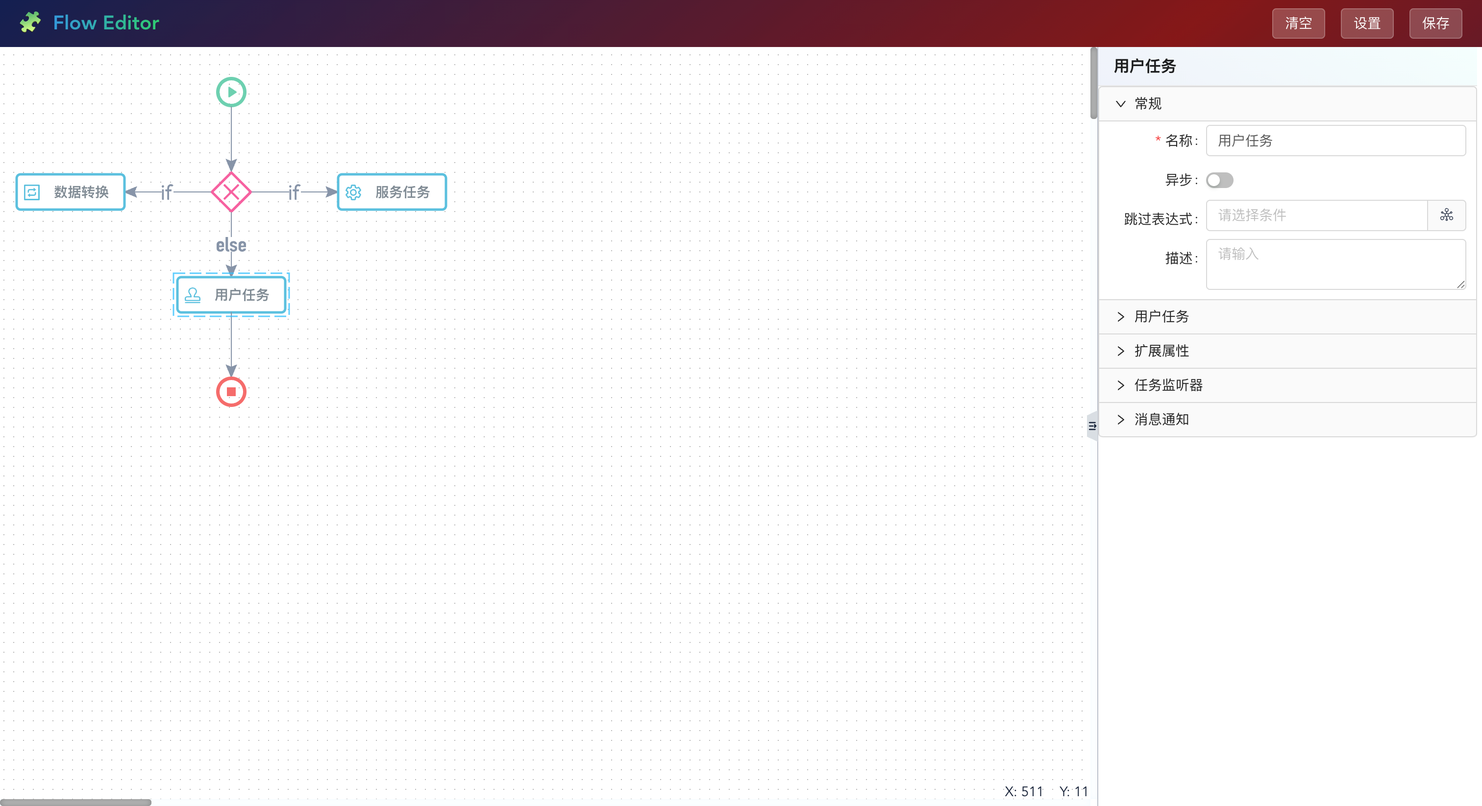
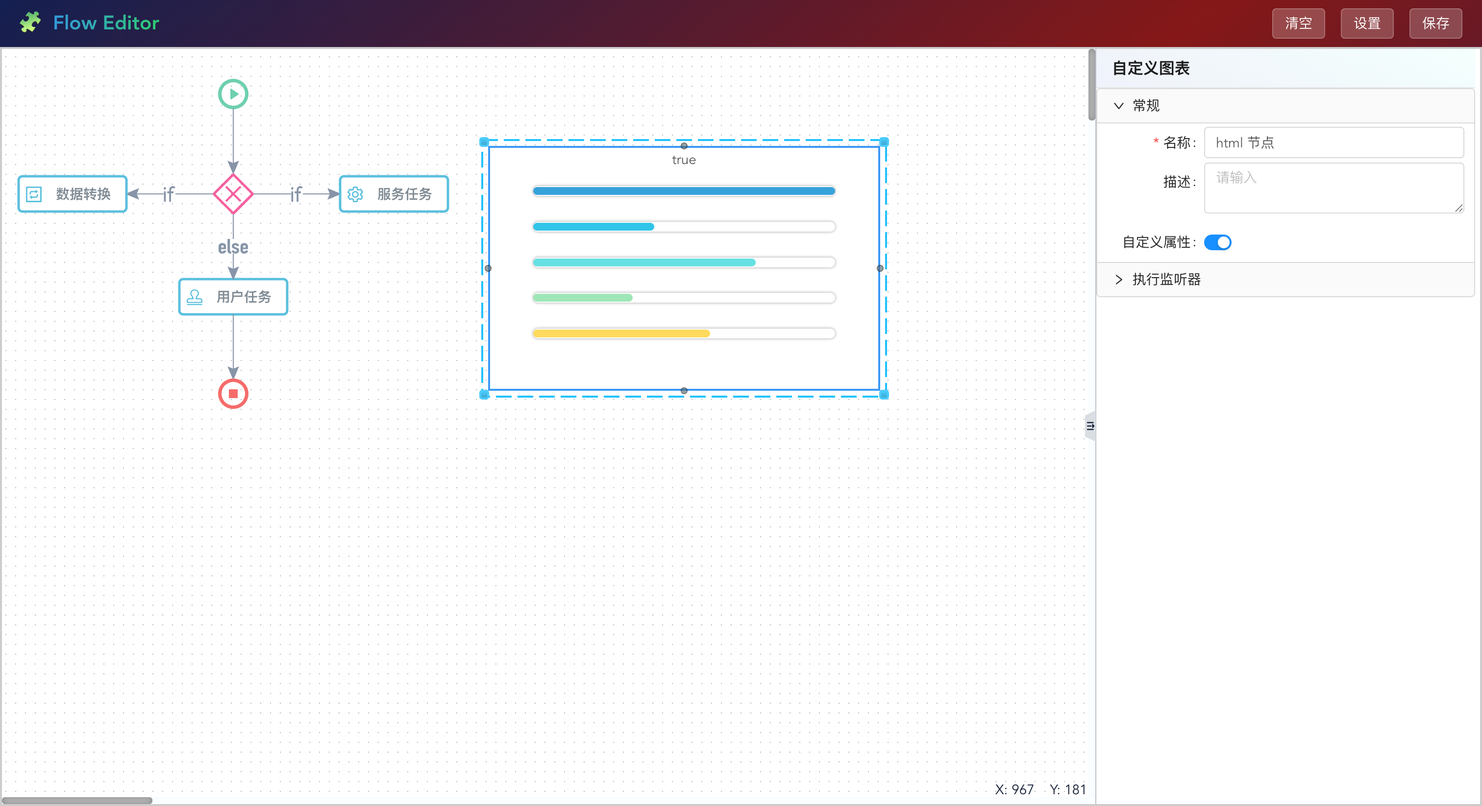
update

diff --git a/js/index.1dcd9817.js b/js/index.1dcd9817.js
@@ -1,0 +1,1 @@
+(function(){var e={1891:function(e,t,a){"use strict";var s=a(2856),o=function(){var e=this,t=e._self._c;return t("ConfigProvider",{attrs:{locale:e.locale}},[t("div",{attrs:{id:"app"}},[t("div",{staticClass:"tool-bar"},[t("div",{staticClass:"logo"},[t("div",{staticClass:"logo-icon"},[e._v("🧩")]),t("span",{staticClass:"logo-text"},[e._v("Flow Editor")])]),t("div",{staticClass:"controls"},[t("button",{staticClass:"control-btn",attrs:{id:"btn-clear"},on:{click:e.clearCanvas}},[e._v(" 清空 ")]),t("button",{staticClass:"control-btn",attrs:{id:"btn-config"},on:{click:function(t){e.settingVisible=!0}}},[e._v(" 设置 ")]),t("button",{staticClass:"control-btn",attrs:{id:"btn-save"},on:{click:e.saveData}},[e._v(" 保存 ")])])]),t("div",{staticClass:"process-synergy"},[t("ProcessEditor",{ref:"editor",attrs:{processData:e.processData,tabConfig:e.tabConfig,editorConfig:e.editorConfig,customNodes:e.customNodes,customFields:e.customFields,staticDataSource:e.staticDataSource}})],1),t("a-modal",{attrs:{bodyStyle:{height:"450px",overflow:"auto"},width:"80%",title:"Json数据",footer:null},model:{value:e.showEditor,callback:function(t){e.showEditor=t},expression:"showEditor"}},[t("pre",[e._v(e._s(e.jsonData))])]),t("CommonDragDrawer",{attrs:{width:"550px",minWidth:"550px",title:"属性配置",visible:e.settingVisible},on:{"update:visible":function(t){e.settingVisible=t},close:e.onDrawerClose}},[t("template",{slot:"footer"},[t("a-button",{staticStyle:{"margin-right":"0.5rem"},on:{click:e.onDrawerClose}},[e._v(e._s("取消"))]),t("a-button",{attrs:{type:"primary"},on:{click:e.onDrawerOk}},[e._v(e._s("确定"))])],1)],2)],1)])},r=[],n=(a(8111),a(2489),a(1701),a(7481)),l=a(263),i=a(4975),d=JSON.parse('{"template":{"basic":{"processName":"流程"},"globalListener":{"list":[{"activityType":"WAIT","rowNum":0,"listenerId":"11ed192444902e7b85b56b2595733321"}]}},"bizFigures":[{"id":"88f58cac-1466-e946-180b-cbaec238dc73","attr":{"type":"Start","nodeType":"Start","x":221,"y":31},"userData":{"basic":{"nodeName":"开始"},"extension":{"revoke":true,"addsign":true},"nodeType":"Start"}},{"id":"8a5744e6-fdb7-31cf-00f4-21bb6e4daddc","attr":{"type":"ExclusiveGateway","nodeType":"ExclusiveGateway","x":215,"y":127},"userData":{"basic":{"nodeName":"互斥网关"},"nodeType":"ExclusiveGateway"}},{"id":"ad0ebb41-3825-b962-e637-19ae89546c31","attr":{"type":"DataConversionTask","nodeType":"DataConversionTask","x":17,"y":130},"userData":{"basic":{"nodeName":"数据转换"},"nodeType":"DataConversionTask"}},{"id":"f036c65a-bb01-cdcb-b231-b526528cd720","attr":{"type":"ServiceTask","nodeType":"ServiceTask","x":345,"y":130},"userData":{"basic":{"nodeName":"服务任务"},"ccToUsers":{},"executionListener":{},"nodeType":"ServiceTask"}},{"id":"19effa64-82ff-7f84-6d0f-f680a3ad1e08","attr":{"type":"UserTask","nodeType":"UserTask","x":181,"y":235},"userData":{"basic":{"nodeName":"用户任务"},"executors":{},"extension":{"actionType":["approve","turn_do","addsign","reject"],"returnType":["BACK_DIRECTLY"],"allowReturnTo":"ALL_BEFORE_NODE"},"taskListener":{},"messageVO":{"messages":[]},"nodeType":"UserTask"}},{"id":"b9f051ed-8480-3351-c7ad-8de024538434","attr":{"type":"End","nodeType":"End","x":221,"y":337},"userData":{"basic":{"nodeName":"结束"},"nodeType":"End"}},{"id":"85b39fc1-9c73-c42e-be29-905904da4018","attr":{"type":"HtmlTask","nodeType":"CustomTask","x":570,"y":14},"userData":{"basic":{"nodeName":"html 节点","customFlag":true},"executionListener":{"list":[{"activityType":"WAIT","rowNum":0,"listenerId":"11ed1924a9ee7f149abf1da7b7288998"}]},"nodeType":"CustomTask"}},{"id":"9b7aef9d-2510-3c7f-acbd-389801771d57","attr":{"type":"HtmlTask","nodeType":"DataVTask","x":573,"y":300},"userData":{"nodeType":"DataVTask"}}],"noneBizFigures":[{"id":"35f545ff-eb8a-9480-2f65-379fe0118701","attr":{"type":"VerticalLane","x":221,"y":385},"userData":{"text":"泳道","shapeAttr":{"config":{},"text":"泳道","width":300,"height":550,"fontSize":14,"stroke":2,"bold":false,"alpha":1,"dasharray":null,"fontColor":"rgba(128,139,148,1)","color":"rgba(91,192,222,1)","bgColor":"none","titleBgColor":"#FFFFFF"}}},{"id":"5b58acdf-5410-4566-6c88-473e269607ef","attr":{"type":"Remarks","x":311,"y":276},"userData":{"text":"文本描述","shapeAttr":{"config":{"text":{"rules":[{"required":true,"message":"必填"}]},"fontSize":{"rules":[{"required":true,"message":"必填"}]}},"text":"文本描述","width":120,"height":60,"fontSize":12,"stroke":2,"bold":true,"alpha":1,"fontColor":"rgba(31,145,238,1)","color":"rgba(91,192,222,1)","bgColor":"rgba(0,0,0,0)","dasharray":"-.."}}}],"lines":[{"id":"100941e4-8c31-8159-2310-3e90f67fdf72","attr":{},"source":{"id":"8a5744e6-fdb7-31cf-00f4-21bb6e4daddc","portType":"bottom"},"target":{"id":"19effa64-82ff-7f84-6d0f-f680a3ad1e08","portType":"top"},"userData":{}},{"id":"6f75881e-9b60-2213-0ed6-805390541a2b","attr":{},"source":{"id":"8a5744e6-fdb7-31cf-00f4-21bb6e4daddc","portType":"left"},"target":{"id":"ad0ebb41-3825-b962-e637-19ae89546c31","portType":"right"},"userData":{}},{"id":"bb50fb49-20af-c46f-0565-bf4059c55dd1","attr":{},"source":{"id":"88f58cac-1466-e946-180b-cbaec238dc73","portType":"bottom"},"target":{"id":"8a5744e6-fdb7-31cf-00f4-21bb6e4daddc","portType":"top"},"userData":{}},{"id":"49df0349-8745-fcdf-b262-037aad0b6357","attr":{},"source":{"id":"8a5744e6-fdb7-31cf-00f4-21bb6e4daddc","portType":"right"},"target":{"id":"f036c65a-bb01-cdcb-b231-b526528cd720","portType":"left"},"userData":{}},{"id":"da998c0e-d333-960e-94dc-d49b15b3e86c","attr":{},"source":{"id":"19effa64-82ff-7f84-6d0f-f680a3ad1e08","portType":"bottom"},"target":{"id":"b9f051ed-8480-3351-c7ad-8de024538434","portType":"top"},"userData":{}}]}'),c=JSON.parse('{"eventList":[{"title":"测试活动1","key":"11ed1924a9ee7f149abf1da7b7288998"},{"title":"测试活动2","key":"11ed192444902e7b85b56b2595733321"}],"eventExecutionTime":[{"key":"LEAVE_NODE","title":"环节结束"}],"msgNotifyExecutionTime":[{"key":"ARRIVE_NODE","title":"环节到达"},{"key":"RETURN_NODE","title":"环节被退回"},{"key":"HAVE_TIMEOUT","title":"环节超时"},{"key":"LEAVE_NODE","title":"环节结束"}]}'),u={template:{addTemplate:[{t_name:"basic",localeKey:"process.template",label:"常规",groups:[{fieldList:[{f_name:"processName",comProps:{required:!0,maxLength:64,defaultValue:"流程"},label:"名称",isSys:!0,type:"INPUT"}],g_name:"workflow_basic",label:"常规"}]}],editTemplate:[{t_name:"basic",label:"常规",groups:[{fieldList:[{f_name:"processName",comProps:{required:!0,maxLength:64,defaultValue:"流程"},label:"名称",isSys:!0,type:"INPUT"},{f_name:"candidateStarterUsers",label:"流程启动人",isSys:!0,type:"PERSON"},{f_name:"documentation",comProps:{maxLength:1024},label:"描述",isSys:!0,type:"TEXTAREA"}],g_name:"template_basic",label:"常规"}]},{t_name:"globalListener",label:"全局监听",groups:[{g_name:"list",renderGroup:"cardList",addInitValue:{activityType:"DOWNWARD_FLOW"},isSys:!0,type:"EXECUTE",composite:!0,label:""}]}]},node:{Start:[{t_name:"basic",label:"常规",groups:[{fieldList:[{f_name:"nodeName",comProps:{multiline:!0,required:!0,maxLength:64,defaultValue:"开始"},label:"名称",isSys:!0,type:"INPUT"},{f_name:"documentation",comProps:{maxLength:1024},label:"描述",isSys:!0,type:"TEXTAREA"}],g_name:"MENU_BASIC",label:"常规"}]},{t_name:"extension",label:"扩展属性",groups:[{fieldList:[{groupId:"11ec484951a9aeca9931bb014d9869a2",label:"撤回",f_name:"revoke",type:"BOOLEAN",comProps:{defaultValue:!0},renderType:"block"},{isSys:!1,groupId:"11ec484951a9aeca9931bb014d9869a2",label:"加签",f_name:"addsign",type:"BOOLEAN",comProps:{defaultValue:!0},renderType:"block"}],g_name:"approvalAuthority",label:"审批权限",renderGroup:"collapse"}]}],End:[{t_name:"basic",label:"常规",groups:[{fieldList:[{f_name:"nodeName",comProps:{multiline:!0,required:!0,maxLength:64,defaultValue:"结束"},label:"名称",isSys:!0,type:"INPUT"},{f_name:"documentation",comProps:{maxLength:1024},label:"描述",isSys:!0,type:"TEXTAREA"}],g_name:"MENU_BASIC",label:"常规"}]}],UserTask:[{t_name:"basic",label:"常规",groups:[{fieldList:[{f_name:"nodeName",comProps:{multiline:!0,required:!0,maxLength:64,defaultValue:"用户任务"},label:"名称",isSys:!0,type:"INPUT"},{f_name:"asynchronous",label:"异步",isSys:!0,type:"BOOLEAN"},{f_name:"skipExpression",label:"跳过表达式",isSys:!0,type:"RULE_CONDITION"},{f_name:"documentation",comProps:{maxLength:1024},label:"描述",isSys:!0,type:"TEXTAREA"}],g_name:"MENU_BASIC",label:"常规"}]},{t_name:"executors",label:"用户任务",groups:[{fieldList:[{f_name:"executorRule",comProps:{required:!0},label:"执行人",placeholderLocaleKey:"process.executors",isSys:!0,type:"PERSON"},{f_name:"executorType",comProps:{defaultValue:"PREEMPTIVE"},label:"执行类型",layout:"horizontal",options:[{value:"PREEMPTIVE",label:"或签",title:"其中一名审批人通过即可",localeKey:"process.preemptive"},{value:"COUNTERSIGN",label:"会签",title:"需要所有审批人都通过",localeKey:"process.countersign"}],isSys:!0,composite:!0,type:"EXECUTOR_TYPE"},{f_name:"dueDate",label:"到期时间",isSys:!0,type:"DATE"},{f_name:"conditionRule",tabDataCode:"executors",label:"表达式",isSys:!0,type:"RULE_CONDITION"}],g_name:"list",labelHidden:!0,renderGroup:"cardList",isSys:!0,label:"执行人"}]},{t_name:"extension",label:"扩展属性",groups:[{fieldList:[{isSys:!1,groupId:"6f8ceb08a35a4be08c82d796aef4c74c",label:"功能项",f_name:"actionType",type:"CHECKBOX",renderType:"block",comProps:{defaultValue:["approve","turn_do","addsign","reject"]},layout:"horizontal",options:[{label:"审批",value:"approve"},{label:"签收",value:"claim"},{label:"转办",value:"turn_do"},{label:"暂存",value:"hold_task"},{label:"加签",value:"addsign"},{label:"驳回",value:"reject"},{label:"撤回",value:"revoke"},{label:"转阅",value:"turn_read"},{label:"委派",value:"delegate"}]},{isSys:!1,groupId:"6f8ceb08a35a4be08c82d796aef4c74c",label:"再提交方式",f_name:"returnType",type:"CHECKBOX",renderType:"block",layout:"horizontal",comProps:{defaultValue:["BACK_DIRECTLY"]},options:[{label:"直送至我",value:"BACK_DIRECTLY"},{label:"逐级审批",value:"BACK_STEPBYSTEP"}]},{isSys:!1,groupId:"6f8ceb08a35a4be08c82d796aef4c74c",label:"允许退回至",f_name:"allowReturnTo",type:"SELECT",renderType:"block",comProps:{defaultValue:"ALL_BEFORE_NODE"},options:"[{'disabled':false,'title':'前所有环节','key':'ALL_BEFORE_NODE'},{'disabled':false,'title':'前一环节','key':'BEFORE_NODE'},{'disabled':false,'title':'开始','key':'START_NODE'}]"}],g_name:"approvalAuthority",label:"审批权限",renderGroup:"collapse"}]},{t_name:"taskListener",label:"任务监听器",groups:[{g_name:"list",renderGroup:"cardList",addInitValue:{activityType:"DOWNWARD_FLOW"},isSys:!0,type:"EXECUTE",composite:!0,label:""}]},{t_name:"messageVO",label:"消息通知",groups:[{fieldList:[{f_name:"executionTime",tabDataCode:"messageVO",comProps:{required:!0,defaultValue:"ARRIVE_NODE"},label:"发送时机",dataSourceFrom:"msgNotifyExecutionTime",isSys:!0,type:"SELECT"},{f_name:"sender",comProps:{required:!0},label:"通知人",isSys:!0,type:"PERSON"},{f_name:"conditionRule",tabDataCode:"messageVO",label:"消息发送条件",isSys:!0,type:"RULE_CONDITION"}],g_name:"messages",defaultValue:[],labelHidden:!0,renderGroup:"cardList",isSys:!0,label:"消息通知"}]}],ExclusiveGateway:[{t_name:"basic",label:"常规",groups:[{fieldList:[{f_name:"nodeName",comProps:{multiline:!0,required:!0,maxLength:64,defaultValue:"互斥网关"},label:"名称",isSys:!0,type:"INPUT"},{f_name:"documentation",comProps:{maxLength:1024},label:"描述",isSys:!0,type:"TEXTAREA"}],g_name:"branchData",labelHidden:!0,isSys:!0,composite:!0,type:"CONDITION_BRANCH",label:""}]}],DataConversionTask:[{t_name:"basic",label:"常规",groups:[{fieldList:[{f_name:"nodeName",comProps:{multiline:!0,required:!0,maxLength:64,defaultValue:"数据转换"},label:"名称",isSys:!0,type:"INPUT"},{f_name:"documentation",comProps:{maxLength:1024},label:"描述",isSys:!0,type:"TEXTAREA"}],g_name:"MENU_BASIC",label:"常规"},{comProps:{required:!0},g_name:"convertRuleIds",fixedPos:["convertData","data","convertRuleIds"],defaultValue:{},labelHidden:!1,labelStyle:{"padding-left":0},renderType:"block",isSys:!0,label:"转换规则"}]}],ServiceTask:[{t_name:"basic",label:"常规",groups:[{fieldList:[{f_name:"nodeName",comProps:{multiline:!0,required:!0,maxLength:64,defaultValue:"服务任务"},label:"名称",isSys:!0,type:"INPUT"},{f_name:"documentation",comProps:{maxLength:1024},label:"描述",isSys:!0,type:"TEXTAREA"}],g_name:"MENU_BASIC",icon:"",label:"常规",type:"TAB_MENU"},{g_name:"nodeActivities",labelHidden:!0,isSys:!0,composite:!0,label:"执行活动"}]},{t_name:"ccToUsers",label:"抄送人",groups:[{fieldList:[{label:"抄送人",f_name:"ccToUsers",defaultValue:{},renderGroup:"cardList",isSys:!0,type:"PERSON"},{f_name:"conditionRule",tabDataCode:"ccToUsers",label:"抄送条件",isSys:!0,type:"RULE_CONDITION"}],g_name:"ccToUsers",renderGroup:"cardList",isSys:!0,label:"抄送人"}]},{t_name:"executionListener",label:"执行监听器",groups:[{g_name:"list",renderGroup:"cardList",addInitValue:{activityType:"DOWNWARD_FLOW"},isSys:!0,type:"EXECUTE",composite:!0,label:""}]}],CustomTask:[{t_name:"basic",label:"常规",groups:[{fieldList:[{f_name:"nodeName",comProps:{multiline:!0,required:!0,maxLength:64,defaultValue:"html 节点"},label:"名称",isSys:!0,type:"INPUT"},{f_name:"documentation",comProps:{maxLength:1024},label:"描述",isSys:!0,type:"TEXTAREA"},{f_name:"customFlag",label:"自定义属性",isSys:!0,type:"SWITCH"}],g_name:"MENU_BASIC",icon:"",label:"常规",type:"TAB_MENU"},{g_name:"nodeActivities",labelHidden:!0,isSys:!0,composite:!0,label:"执行活动"}]},{t_name:"executionListener",label:"执行监听器",groups:[{g_name:"list",renderGroup:"cardList",addInitValue:{activityType:"DOWNWARD_FLOW"},isSys:!0,type:"EXECUTE",composite:!0,label:""}]}]},line:{ExclusiveGateway:[{t_name:"branchData",label:"条件设置",groups:[{g_name:"branchData",label:"",type:"CONDITION_BRANCH",isSys:!0,composite:!0}]}]}},p=function(){var e=this,t=e._self._c;return t("dv-scroll-board",{attrs:{config:e.config}})},m=[],b={name:"CustomDataV",components:{},props:{},data(){return{}},watch:{},computed:{config(){return{header:["列1","列2","列3"],data:[['<span style="color:#37a2da;">行1列1</span>',"行1列2","行1列3"],["行2列1",'<span style="color:#32c5e9;">行2列2</span>',"行2列3"],["行3列1","行3列2",'<span style="color:#67e0e3;">行3列3</span>'],["行4列1",'<span style="color:#9fe6b8;">行4列2</span>',"行4列3"],['<span style="color:#ffdb5c;">行5列1</span>',"行5列2","行5列3"],["行6列1",'<span style="color:#ff9f7f;">行6列2</span>',"行6列3"],["行7列1","行7列2",'<span style="color:#fb7293;">行7列3</span>'],["行8列1",'<span style="color:#e062ae;">行8列2</span>',"行8列3"],['<span style="color:#e690d1;">行9列1</span>',"行9列2","行9列3"],["行10列1",'<span style="color:#e7bcf3;">行10列2</span>',"行10列3"]],index:!0,columnWidth:[50],align:["center"]}}},created(){},mounted(){},methods:{}},f=b,y=a(1656),g=(0,y.A)(f,p,m,!1,null,"42542265",null),h=g.exports,j=function(){var e=this,t=e._self._c;return t("div",{staticClass:"custom-html"},[t("div",{staticClass:"node-name"},[e._v(e._s(e.nodeName))]),t("div",{staticClass:"node-content"},[t("dv-capsule-chart",{staticStyle:{width:"100%",height:"100%"},attrs:{config:e.config}})],1)])},T=[],_={name:"CustomHtml",components:{},props:{userData:{type:Object,default:function(){return{}}}},data(){return{nodeName:""}},watch:{},computed:{config(){return{data:[{name:"南阳",value:167},{name:"周口",value:67},{name:"漯河",value:123},{name:"郑州",value:55},{name:"西峡",value:98}],unit:"单位"}}},created(){},mounted(){const{basic:e}=this.userData||{},{label:t}=e||{};this.nodeName=t||"html 节点"},methods:{setShapeText(e,t){this.nodeName=e},onChange(e,t){const{method:a,path:s,key:o,itemIndex:r,value:n}=e||{};this.nodeName=n}}},v=_,E=(0,y.A)(v,j,T,!1,null,"fa1c7e6e",null),k=E.exports,S=function(){var e=this,t=e._self._c;return t("a-switch",e._b({on:{change:e.onChange}},"a-switch",e.comProps,!1))},D=[],N={name:"FieldSwitch",props:{fieldConfig:{type:Object,default:()=>{}},fieldVal:{type:Object,default:()=>{}}},data(){return{checked:this.fieldVal.value||!1}},computed:{comProps:function(){const{value:e,...t}=this.fieldVal||{};return{size:"small",...t,checked:this.checked}}},methods:{onChange(e){this.checked=e,this.$listeners.setValue&&this.$emit("setValue",{value:e})}}},C=N,x=(0,y.A)(C,S,D,!1,null,null,null),L=x.exports;function O(e){let t="bottom";switch(e){case"draw2d.layout.locator.TopLocator":t="top";break;case"draw2d.layout.locator.BottomLocator":t="bottom";break;case"draw2d.layout.locator.LeftLocator":t="left";break;case"draw2d.layout.locator.RightLocator":t="right";break}return t}var A={name:"App",components:{ConfigProvider:n.A},data(){return{locale:i.A,processData:d,staticDataSource:c,tabConfig:u,jsonData:"",showEditor:!1,settingVisible:!1}},computed:{editorConfig(){return{}},customNodes(){return[{type:"HtmlTask",nodeType:"CustomTask",text:"自定义图表",component:k,attr:{width:400,height:250,resizeable:!0}},{type:"HtmlTask",nodeType:"DataVTask",text:"自定义Table",component:h,attr:{width:450,height:220}}]},customFields(){return{SWITCH:{component:L,props:{},events:{}}}}},mounted(){document.documentElement.style.setProperty("--demo-app-bg-color","linear-gradient(140deg, #1a2a6c, #b21f1f, #1a2a6c)"),this._registerDefaultHooks(),this.$refs.editor.designer.init().then(()=>{this.$refs.editor.designer.importProcess(this.processData),this.$refs.editor.initCanvas(this.$refs.editor.designer.canvas)})},methods:{_registerDefaultHooks(){this.$refs.editor.designer.on("beforeRemoveNode",({event:{figure:e}}={})=>{if(e.protected)return l.A.warning("禁止删除"),!1},{blockAble:!0}),this.$refs.editor.designer.on("afterAddNode",({emitter:e,event:t})=>{t.figure&&["start","end"].includes(t.figure.nodeType.toLowerCase())&&(t.figure.protected=!0)})},customContextMenu(e){},clearCanvas(){const e=this.$refs.editor.designer;e&&(e.clear(),this.$refs.editor.setTemplateProperty())},onDrawerClose(){this.settingVisible=!1},onDrawerOk(){this.onDrawerClose()},saveData(){const e=this.$refs.editor.designer.canvas;let t=e.getFigures().data||[],a=e.getLines().data||[];const s={template:this.$refs.editor.templateJson,bizFigures:t.filter(e=>e.nodeType).map(e=>({id:e.id,attr:{type:e.type,nodeType:e.nodeType,x:e.getX(),y:e.getY()},userData:e.getUserData()})),noneBizFigures:t.filter(e=>!e.nodeType).map(e=>({id:e.id,attr:{type:e.type,x:e.getX(),y:e.getY()},userData:e.getUserData()})),lines:a.map(e=>{const t=e.sourcePort||{},a=e.targetPort||{};return{id:e.id,attr:{},source:{id:t.parent.id,portType:O(t.locator.NAME)},target:{id:a.parent.id,portType:O(a.locator.NAME)},userData:e.userData}})};console.log("res",s),this.jsonData=s,this.showEditor=!0}}},w=A,P=(0,y.A)(w,o,r,!1,null,null,null),I=P.exports,R=a(8074),V=a.n(R),U=a(4132);s["default"].config.productionTip=!1,s["default"].use(V()),s["default"].use(U.Ay),new s["default"]({render:e=>e(I)}).$mount("#app")},5358:function(e,t,a){var s={"./af":54,"./af.js":54,"./ar":8650,"./ar-dz":3137,"./ar-dz.js":3137,"./ar-kw":9825,"./ar-kw.js":9825,"./ar-ly":4800,"./ar-ly.js":4800,"./ar-ma":7521,"./ar-ma.js":7521,"./ar-ps":1854,"./ar-ps.js":1854,"./ar-sa":9747,"./ar-sa.js":9747,"./ar-tn":6093,"./ar-tn.js":6093,"./ar.js":8650,"./az":1125,"./az.js":1125,"./be":1844,"./be.js":1844,"./bg":4238,"./bg.js":4238,"./bm":5452,"./bm.js":5452,"./bn":9877,"./bn-bd":4728,"./bn-bd.js":4728,"./bn.js":9877,"./bo":9158,"./bo.js":9158,"./br":3601,"./br.js":3601,"./bs":9698,"./bs.js":9698,"./ca":4225,"./ca.js":4225,"./cs":5247,"./cs.js":5247,"./cv":3508,"./cv.js":3508,"./cy":7065,"./cy.js":7065,"./da":3002,"./da.js":3002,"./de":7046,"./de-at":2662,"./de-at.js":2662,"./de-ch":640,"./de-ch.js":640,"./de.js":7046,"./dv":3155,"./dv.js":3155,"./el":9296,"./el.js":9296,"./en-au":9441,"./en-au.js":9441,"./en-ca":2659,"./en-ca.js":2659,"./en-gb":1106,"./en-gb.js":1106,"./en-ie":7625,"./en-ie.js":7625,"./en-il":7794,"./en-il.js":7794,"./en-in":5176,"./en-in.js":5176,"./en-nz":2379,"./en-nz.js":2379,"./en-sg":3625,"./en-sg.js":3625,"./eo":297,"./eo.js":297,"./es":653,"./es-do":763,"./es-do.js":763,"./es-mx":7975,"./es-mx.js":7975,"./es-us":5082,"./es-us.js":5082,"./es.js":653,"./et":8216,"./et.js":8216,"./eu":1375,"./eu.js":1375,"./fa":1132,"./fa.js":1132,"./fi":1460,"./fi.js":1460,"./fil":6074,"./fil.js":6074,"./fo":5602,"./fo.js":5602,"./fr":7957,"./fr-ca":3786,"./fr-ca.js":3786,"./fr-ch":273,"./fr-ch.js":273,"./fr.js":7957,"./fy":4100,"./fy.js":4100,"./ga":1205,"./ga.js":1205,"./gd":4730,"./gd.js":4730,"./gl":5938,"./gl.js":5938,"./gom-deva":2523,"./gom-deva.js":2523,"./gom-latn":9676,"./gom-latn.js":9676,"./gu":8697,"./gu.js":8697,"./he":9426,"./he.js":9426,"./hi":1830,"./hi.js":1830,"./hr":5611,"./hr.js":5611,"./hu":2178,"./hu.js":2178,"./hy-am":3117,"./hy-am.js":3117,"./id":9588,"./id.js":9588,"./is":305,"./is.js":305,"./it":5236,"./it-ch":9854,"./it-ch.js":9854,"./it.js":5236,"./ja":1296,"./ja.js":1296,"./jv":7669,"./jv.js":7669,"./ka":2729,"./ka.js":2729,"./kk":911,"./kk.js":911,"./km":6509,"./km.js":6509,"./kn":5092,"./kn.js":5092,"./ko":2091,"./ko.js":2091,"./ku":2709,"./ku-kmr":9294,"./ku-kmr.js":9294,"./ku.js":2709,"./ky":5329,"./ky.js":5329,"./lb":6255,"./lb.js":6255,"./lo":7084,"./lo.js":7084,"./lt":2013,"./lt.js":2013,"./lv":3419,"./lv.js":3419,"./me":4759,"./me.js":4759,"./mi":4331,"./mi.js":4331,"./mk":618,"./mk.js":618,"./ml":8888,"./ml.js":8888,"./mn":4325,"./mn.js":4325,"./mr":2518,"./mr.js":2518,"./ms":261,"./ms-my":7144,"./ms-my.js":7144,"./ms.js":261,"./mt":8048,"./mt.js":8048,"./my":2539,"./my.js":2539,"./nb":7005,"./nb.js":7005,"./ne":6152,"./ne.js":6152,"./nl":999,"./nl-be":2185,"./nl-be.js":2185,"./nl.js":999,"./nn":2329,"./nn.js":2329,"./oc-lnc":5673,"./oc-lnc.js":5673,"./pa-in":7820,"./pa-in.js":7820,"./pl":9265,"./pl.js":9265,"./pt":9577,"./pt-br":9202,"./pt-br.js":9202,"./pt.js":9577,"./ro":2710,"./ro.js":2710,"./ru":3924,"./ru.js":3924,"./sd":7406,"./sd.js":7406,"./se":8109,"./se.js":8109,"./si":7081,"./si.js":7081,"./sk":8279,"./sk.js":8279,"./sl":8598,"./sl.js":8598,"./sq":65,"./sq.js":65,"./sr":1320,"./sr-cyrl":9591,"./sr-cyrl.js":9591,"./sr.js":1320,"./ss":5935,"./ss.js":5935,"./sv":2468,"./sv.js":2468,"./sw":411,"./sw.js":411,"./ta":3354,"./ta.js":3354,"./te":9926,"./te.js":9926,"./tet":4424,"./tet.js":4424,"./tg":2108,"./tg.js":2108,"./th":8577,"./th.js":8577,"./tk":2232,"./tk.js":2232,"./tl-ph":1494,"./tl-ph.js":1494,"./tlh":7353,"./tlh.js":7353,"./tr":8871,"./tr.js":8871,"./tzl":8363,"./tzl.js":8363,"./tzm":1364,"./tzm-latn":2268,"./tzm-latn.js":2268,"./tzm.js":1364,"./ug-cn":7279,"./ug-cn.js":7279,"./uk":6869,"./uk.js":6869,"./ur":4926,"./ur.js":4926,"./uz":8150,"./uz-latn":2670,"./uz-latn.js":2670,"./uz.js":8150,"./vi":9940,"./vi.js":9940,"./x-pseudo":6507,"./x-pseudo.js":6507,"./yo":7893,"./yo.js":7893,"./zh-cn":7849,"./zh-cn.js":7849,"./zh-hk":1381,"./zh-hk.js":1381,"./zh-mo":6440,"./zh-mo.js":6440,"./zh-tw":9613,"./zh-tw.js":9613};function o(e){var t=r(e);return a(t)}function r(e){if(!a.o(s,e)){var t=new Error("Cannot find module '"+e+"'");throw t.code="MODULE_NOT_FOUND",t}return s[e]}o.keys=function(){return Object.keys(s)},o.resolve=r,e.exports=o,o.id=5358}},t={};function a(s){var o=t[s];if(void 0!==o)return o.exports;var r=t[s]={id:s,loaded:!1,exports:{}};return e[s].call(r.exports,r,r.exports,a),r.loaded=!0,r.exports}a.m=e,function(){var e=[];a.O=function(t,s,o,r){if(!s){var n=1/0;for(c=0;c<e.length;c++){s=e[c][0],o=e[c][1],r=e[c][2];for(var l=!0,i=0;i<s.length;i++)(!1&r||n>=r)&&Object.keys(a.O).every(function(e){return a.O[e](s[i])})?s.splice(i--,1):(l=!1,r<n&&(n=r));if(l){e.splice(c--,1);var d=o();void 0!==d&&(t=d)}}return t}r=r||0;for(var c=e.length;c>0&&e[c-1][2]>r;c--)e[c]=e[c-1];e[c]=[s,o,r]}}(),function(){a.n=function(e){var t=e&&e.__esModule?function(){return e["default"]}:function(){return e};return a.d(t,{a:t}),t}}(),function(){a.d=function(e,t){for(var s in t)a.o(t,s)&&!a.o(e,s)&&Object.defineProperty(e,s,{enumerable:!0,get:t[s]})}}(),function(){a.g=function(){if("object"===typeof globalThis)return globalThis;try{return this||new Function("return this")()}catch(e){if("object"===typeof window)return window}}()}(),function(){a.o=function(e,t){return Object.prototype.hasOwnProperty.call(e,t)}}(),function(){a.r=function(e){"undefined"!==typeof Symbol&&Symbol.toStringTag&&Object.defineProperty(e,Symbol.toStringTag,{value:"Module"}),Object.defineProperty(e,"__esModule",{value:!0})}}(),function(){a.nmd=function(e){return e.paths=[],e.children||(e.children=[]),e}}(),function(){var e={57:0};a.O.j=function(t){return 0===e[t]};var t=function(t,s){var o,r,n=s[0],l=s[1],i=s[2],d=0;if(n.some(function(t){return 0!==e[t]})){for(o in l)a.o(l,o)&&(a.m[o]=l[o]);if(i)var c=i(a)}for(t&&t(s);d<n.length;d++)r=n[d],a.o(e,r)&&e[r]&&e[r][0](),e[r]=0;return a.O(c)},s=self["webpackChunkflow_demo"]=self["webpackChunkflow_demo"]||[];s.forEach(t.bind(null,0)),s.push=t.bind(null,s.push.bind(s))}();var s=a.O(void 0,[504],function(){return a(1891)});s=a.O(s)})();

diff --git a/css/index.3d8bb93e.css b/css/index.3d8bb93e.css
@@ -1,0 +1,1 @@
+.custom-html[data-v-fa1c7e6e]{text-align:center;vertical-align:middle;background:#fff;height:100%;border:2px solid #3b99f7}.custom-html .node-name[data-v-fa1c7e6e]{height:24px;line-height:24px}.custom-html .node-content[data-v-fa1c7e6e]{height:calc(100% - 24px)}:root{--demo-app-bg-color:#fff}html{font-size:16px}#app,body,html{height:100%;width:100%}#app{border-bottom:2px solid #ccc;border-left:2px solid #ccc;border-right:2px solid #ccc;font-family:Avenir,Helvetica,Arial,sans-serif;-webkit-font-smoothing:antialiased;-moz-osx-font-smoothing:grayscale;background:var(--demo-app-bg-color)}.tool-bar{height:3rem;padding:.5rem 1.25rem;justify-content:space-between;box-shadow:0 4px 12px rgba(0,0,0,.3);z-index:100;background:rgba(0,0,0,.25)}.tool-bar,.tool-bar .logo{display:flex;align-items:center}.tool-bar .logo{gap:.75rem}.tool-bar .logo-text{font-size:1.25rem;font-weight:600;background:linear-gradient(90deg,#3498db,#2ecc71);-webkit-background-clip:text;background-clip:text;-webkit-text-fill-color:transparent}.tool-bar .logo-icon{font-size:22px;color:#4facfe}.tool-bar .controls{display:flex;gap:1rem}.tool-bar .controls .control-btn{background:hsla(0,0%,100%,.2);border:1px solid hsla(0,0%,100%,.2);color:#fff;padding:.25rem .75rem;border-radius:.25rem;cursor:pointer;font-size:.875rem;transition:all .3s ease;display:flex;align-items:center}.tool-bar .controls .control-btn:hover{background:hsla(0,0%,100%,.3);transform:translateY(-2px)}.process-synergy{height:calc(100% - 3rem)!important;background:#fff}

diff --git a/index.html b/index.html
@@ -1,1 +1,1 @@
-<!doctype html><html lang=""><head><meta charset="utf-8"><meta http-equiv="X-UA-Compatible" content="IE=edge"><meta name="viewport" content="width=device-width,initial-scale=1"><link rel="icon" href="favicon.ico"><title>flow-demo</title><script defer="defer" src="js/chunk-vendors.f395efe9.js"></script><script defer="defer" src="js/index.9b79fde1.js"></script><link href="css/chunk-vendors.3c00b159.css" rel="stylesheet"><link href="css/index.944abdf2.css" rel="stylesheet"></head><body><noscript><strong>We're sorry but flow-demo doesn't work properly without JavaScript enabled. Please enable it to continue.</strong></noscript><div id="app"></div></body></html>
+<!doctype html><html lang=""><head><meta charset="utf-8"><meta http-equiv="X-UA-Compatible" content="IE=edge"><meta name="viewport" content="width=device-width,initial-scale=1"><link rel="icon" href="favicon.ico"><title>flow-demo</title><script defer="defer" src="js/chunk-vendors.f395efe9.js"></script><script defer="defer" src="js/index.1dcd9817.js"></script><link href="css/chunk-vendors.3c00b159.css" rel="stylesheet"><link href="css/index.3d8bb93e.css" rel="stylesheet"></head><body><noscript><strong>We're sorry but flow-demo doesn't work properly without JavaScript enabled. Please enable it to continue.</strong></noscript><div id="app"></div></body></html>
